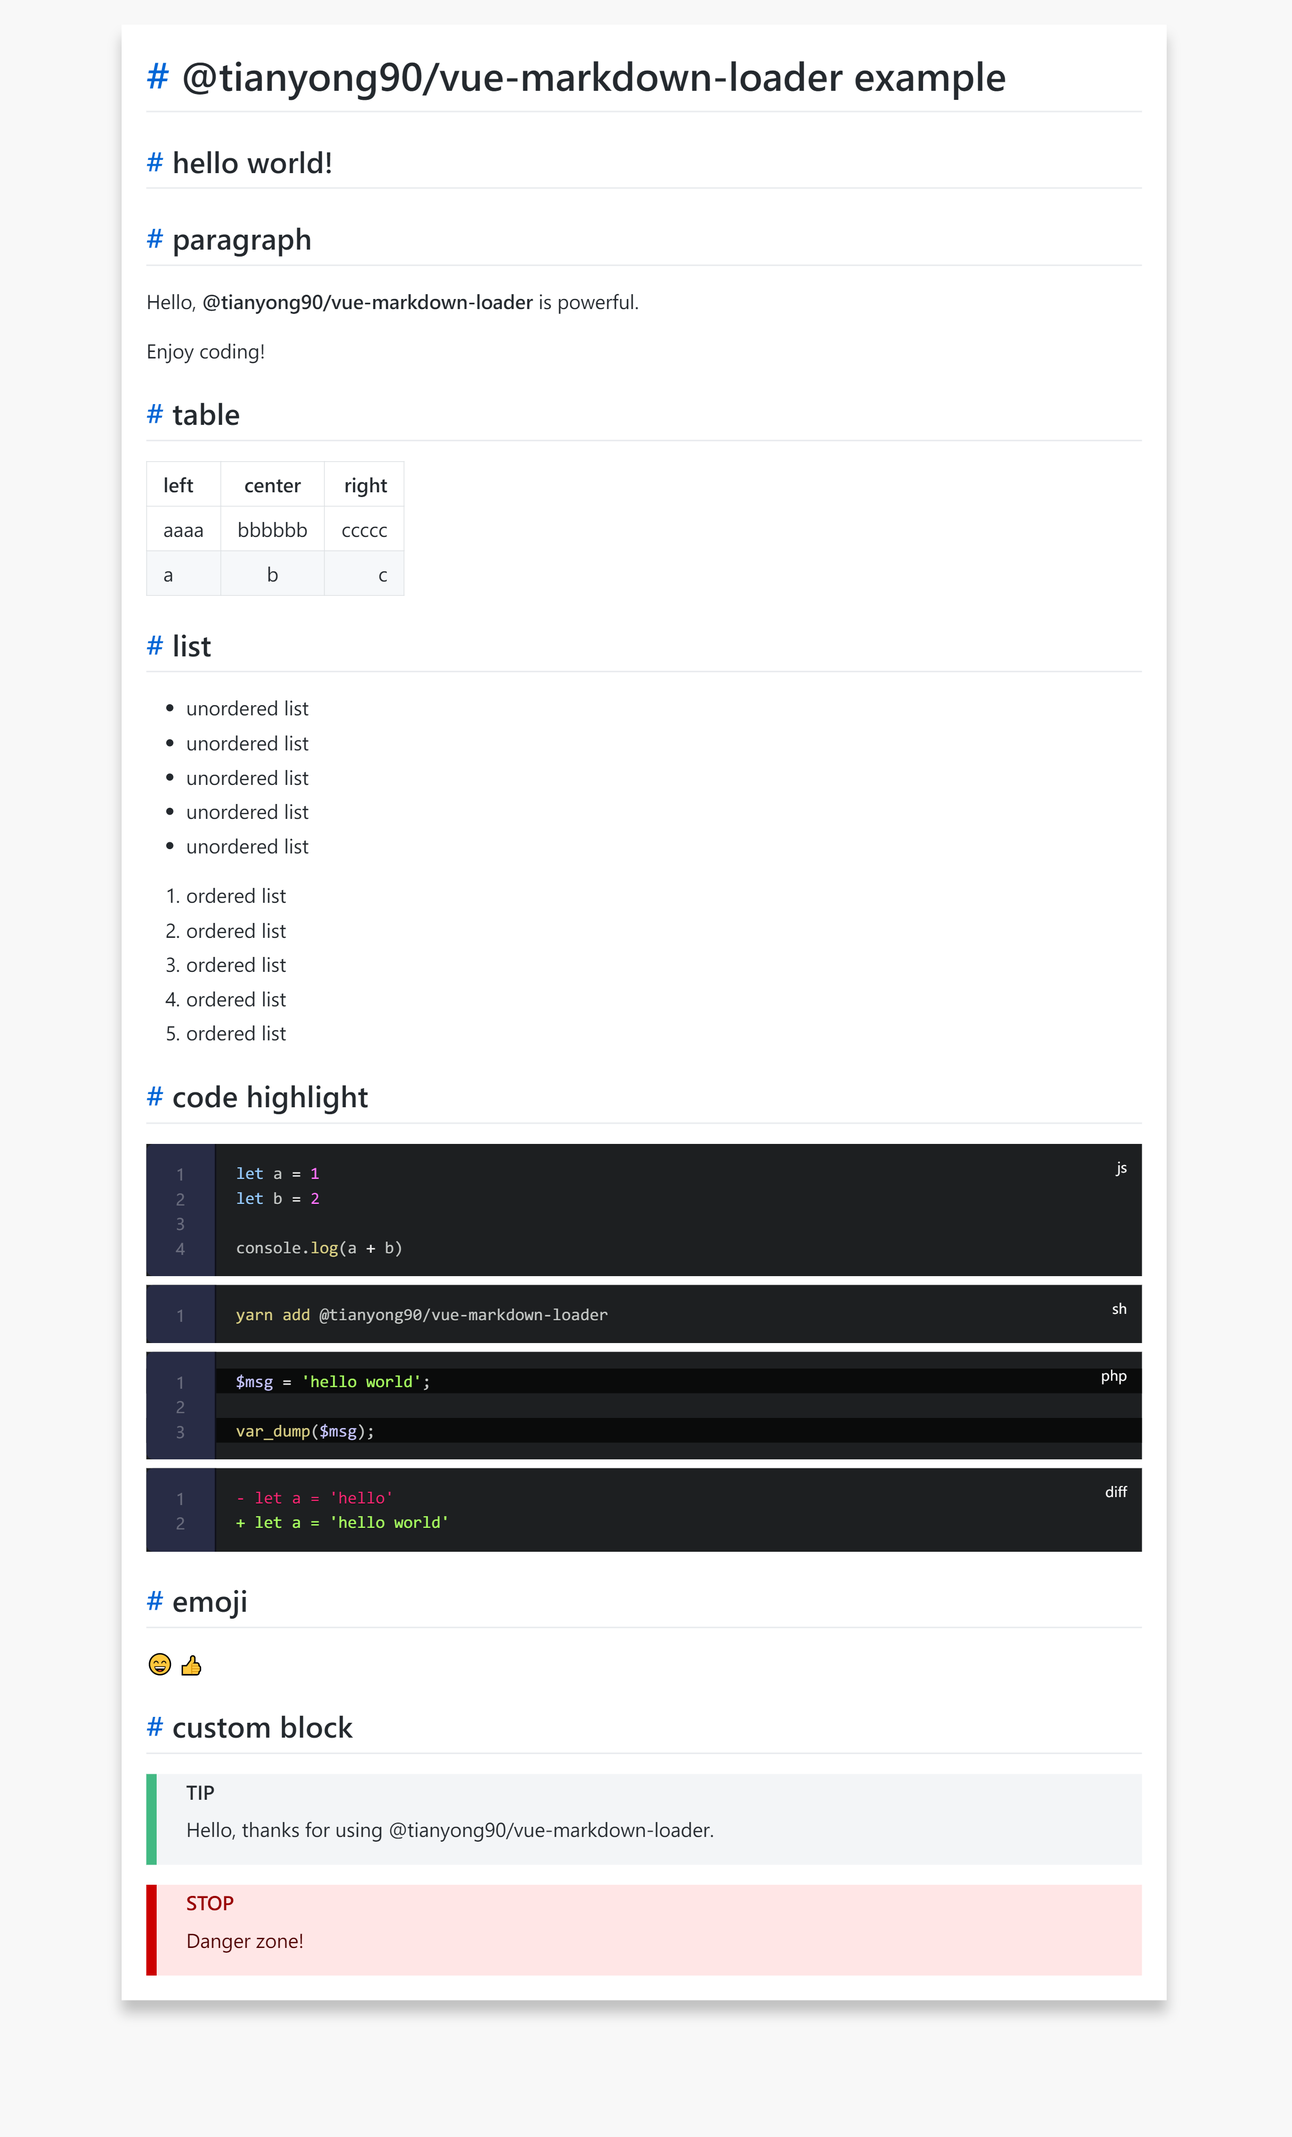
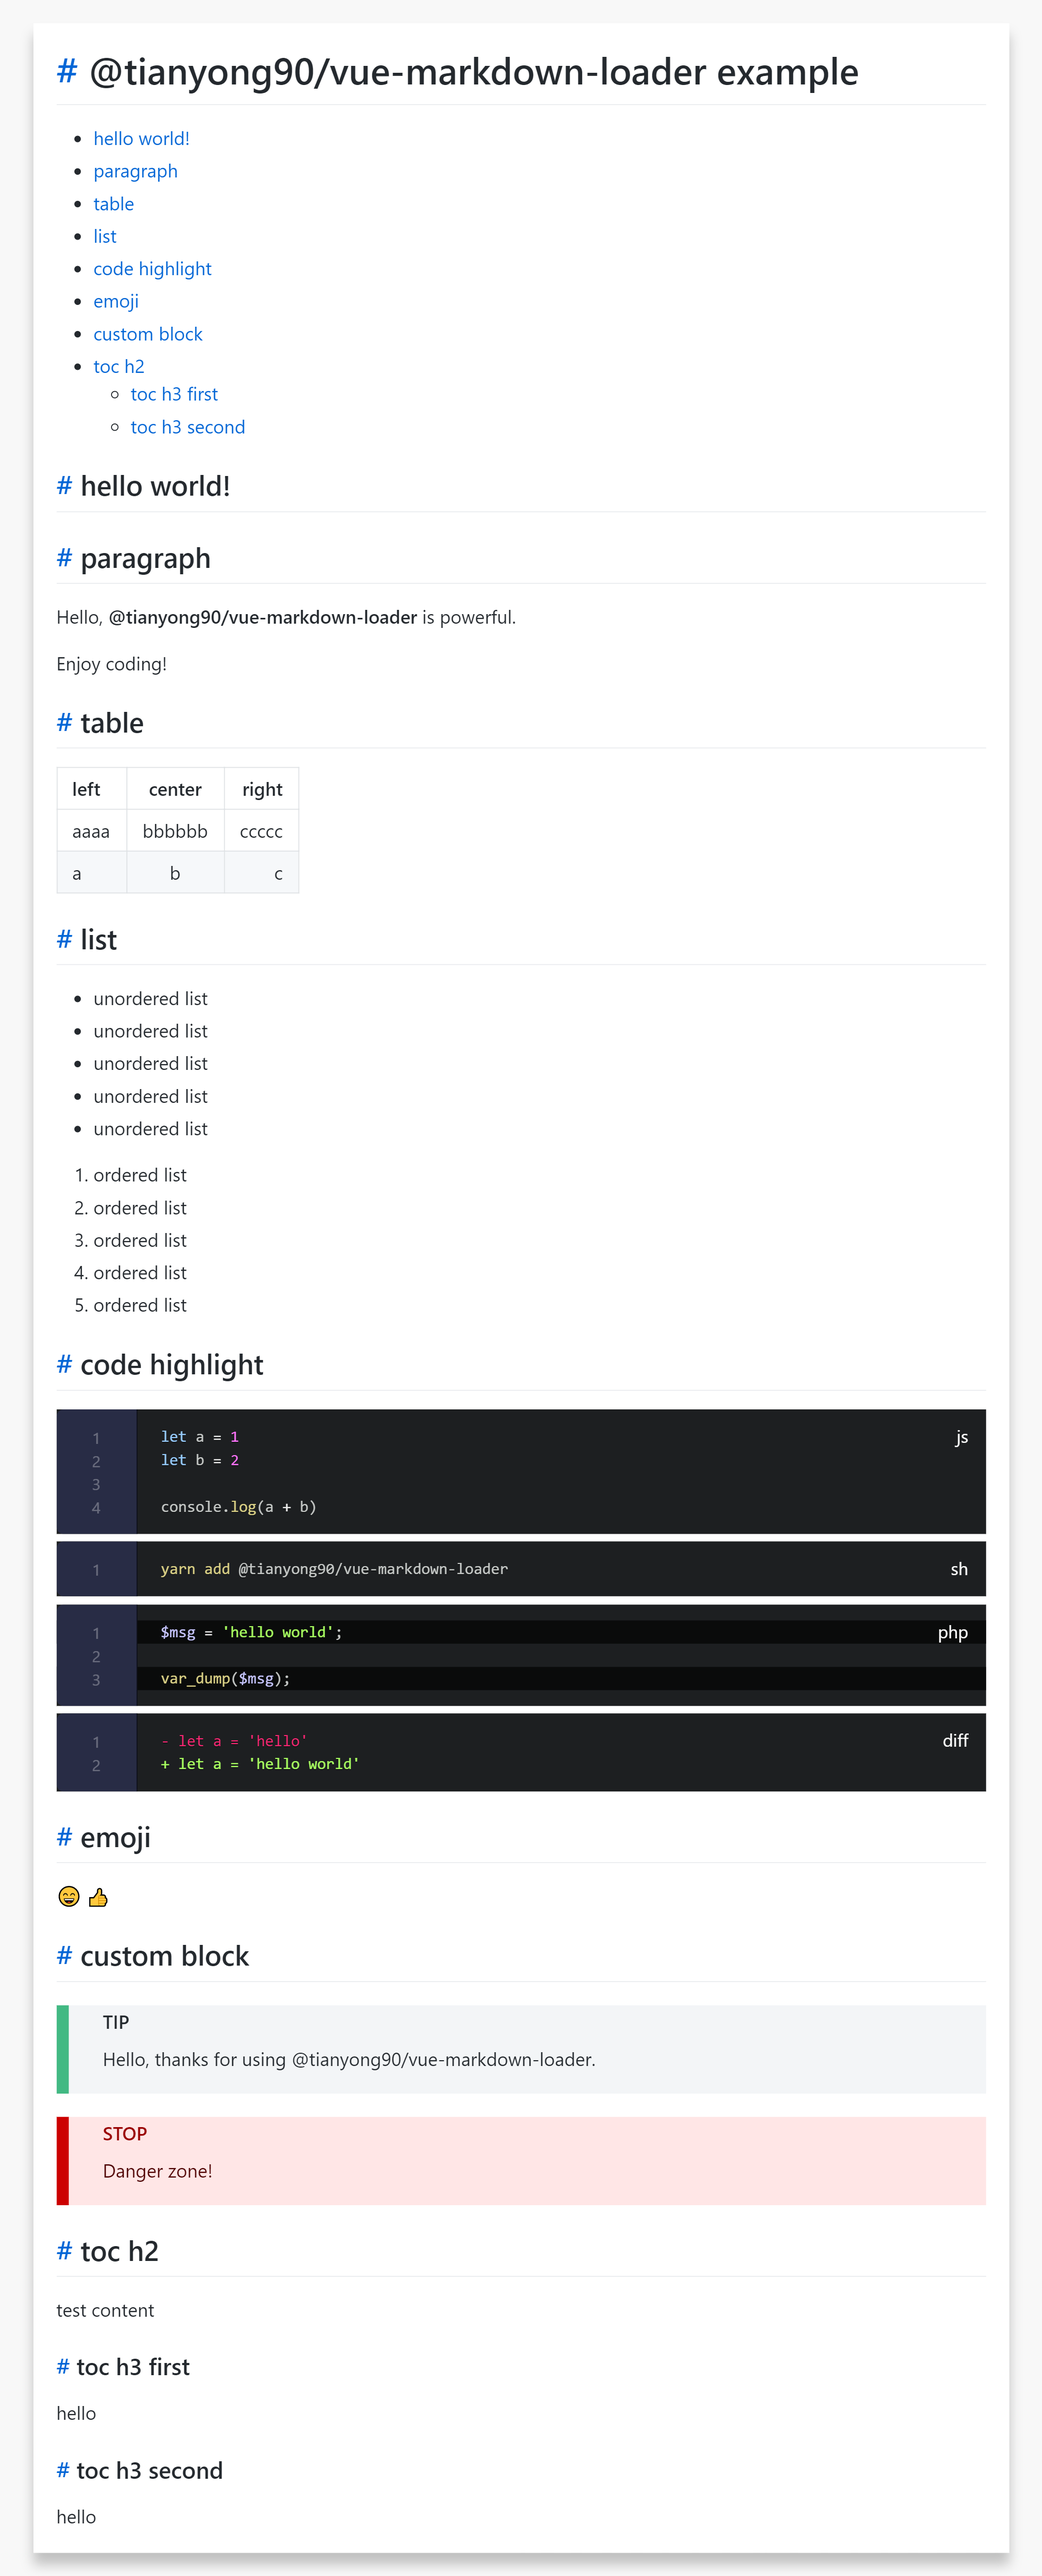
update changelog and screenshot

diff --git a/CHANGELOG.md b/CHANGELOG.md
@@ -1,3 +1,9 @@
+## 0.1.5
+
+### New features
+
+- support table-of-contents(toc)
+
 ## 0.1.0
 
 ### New features
